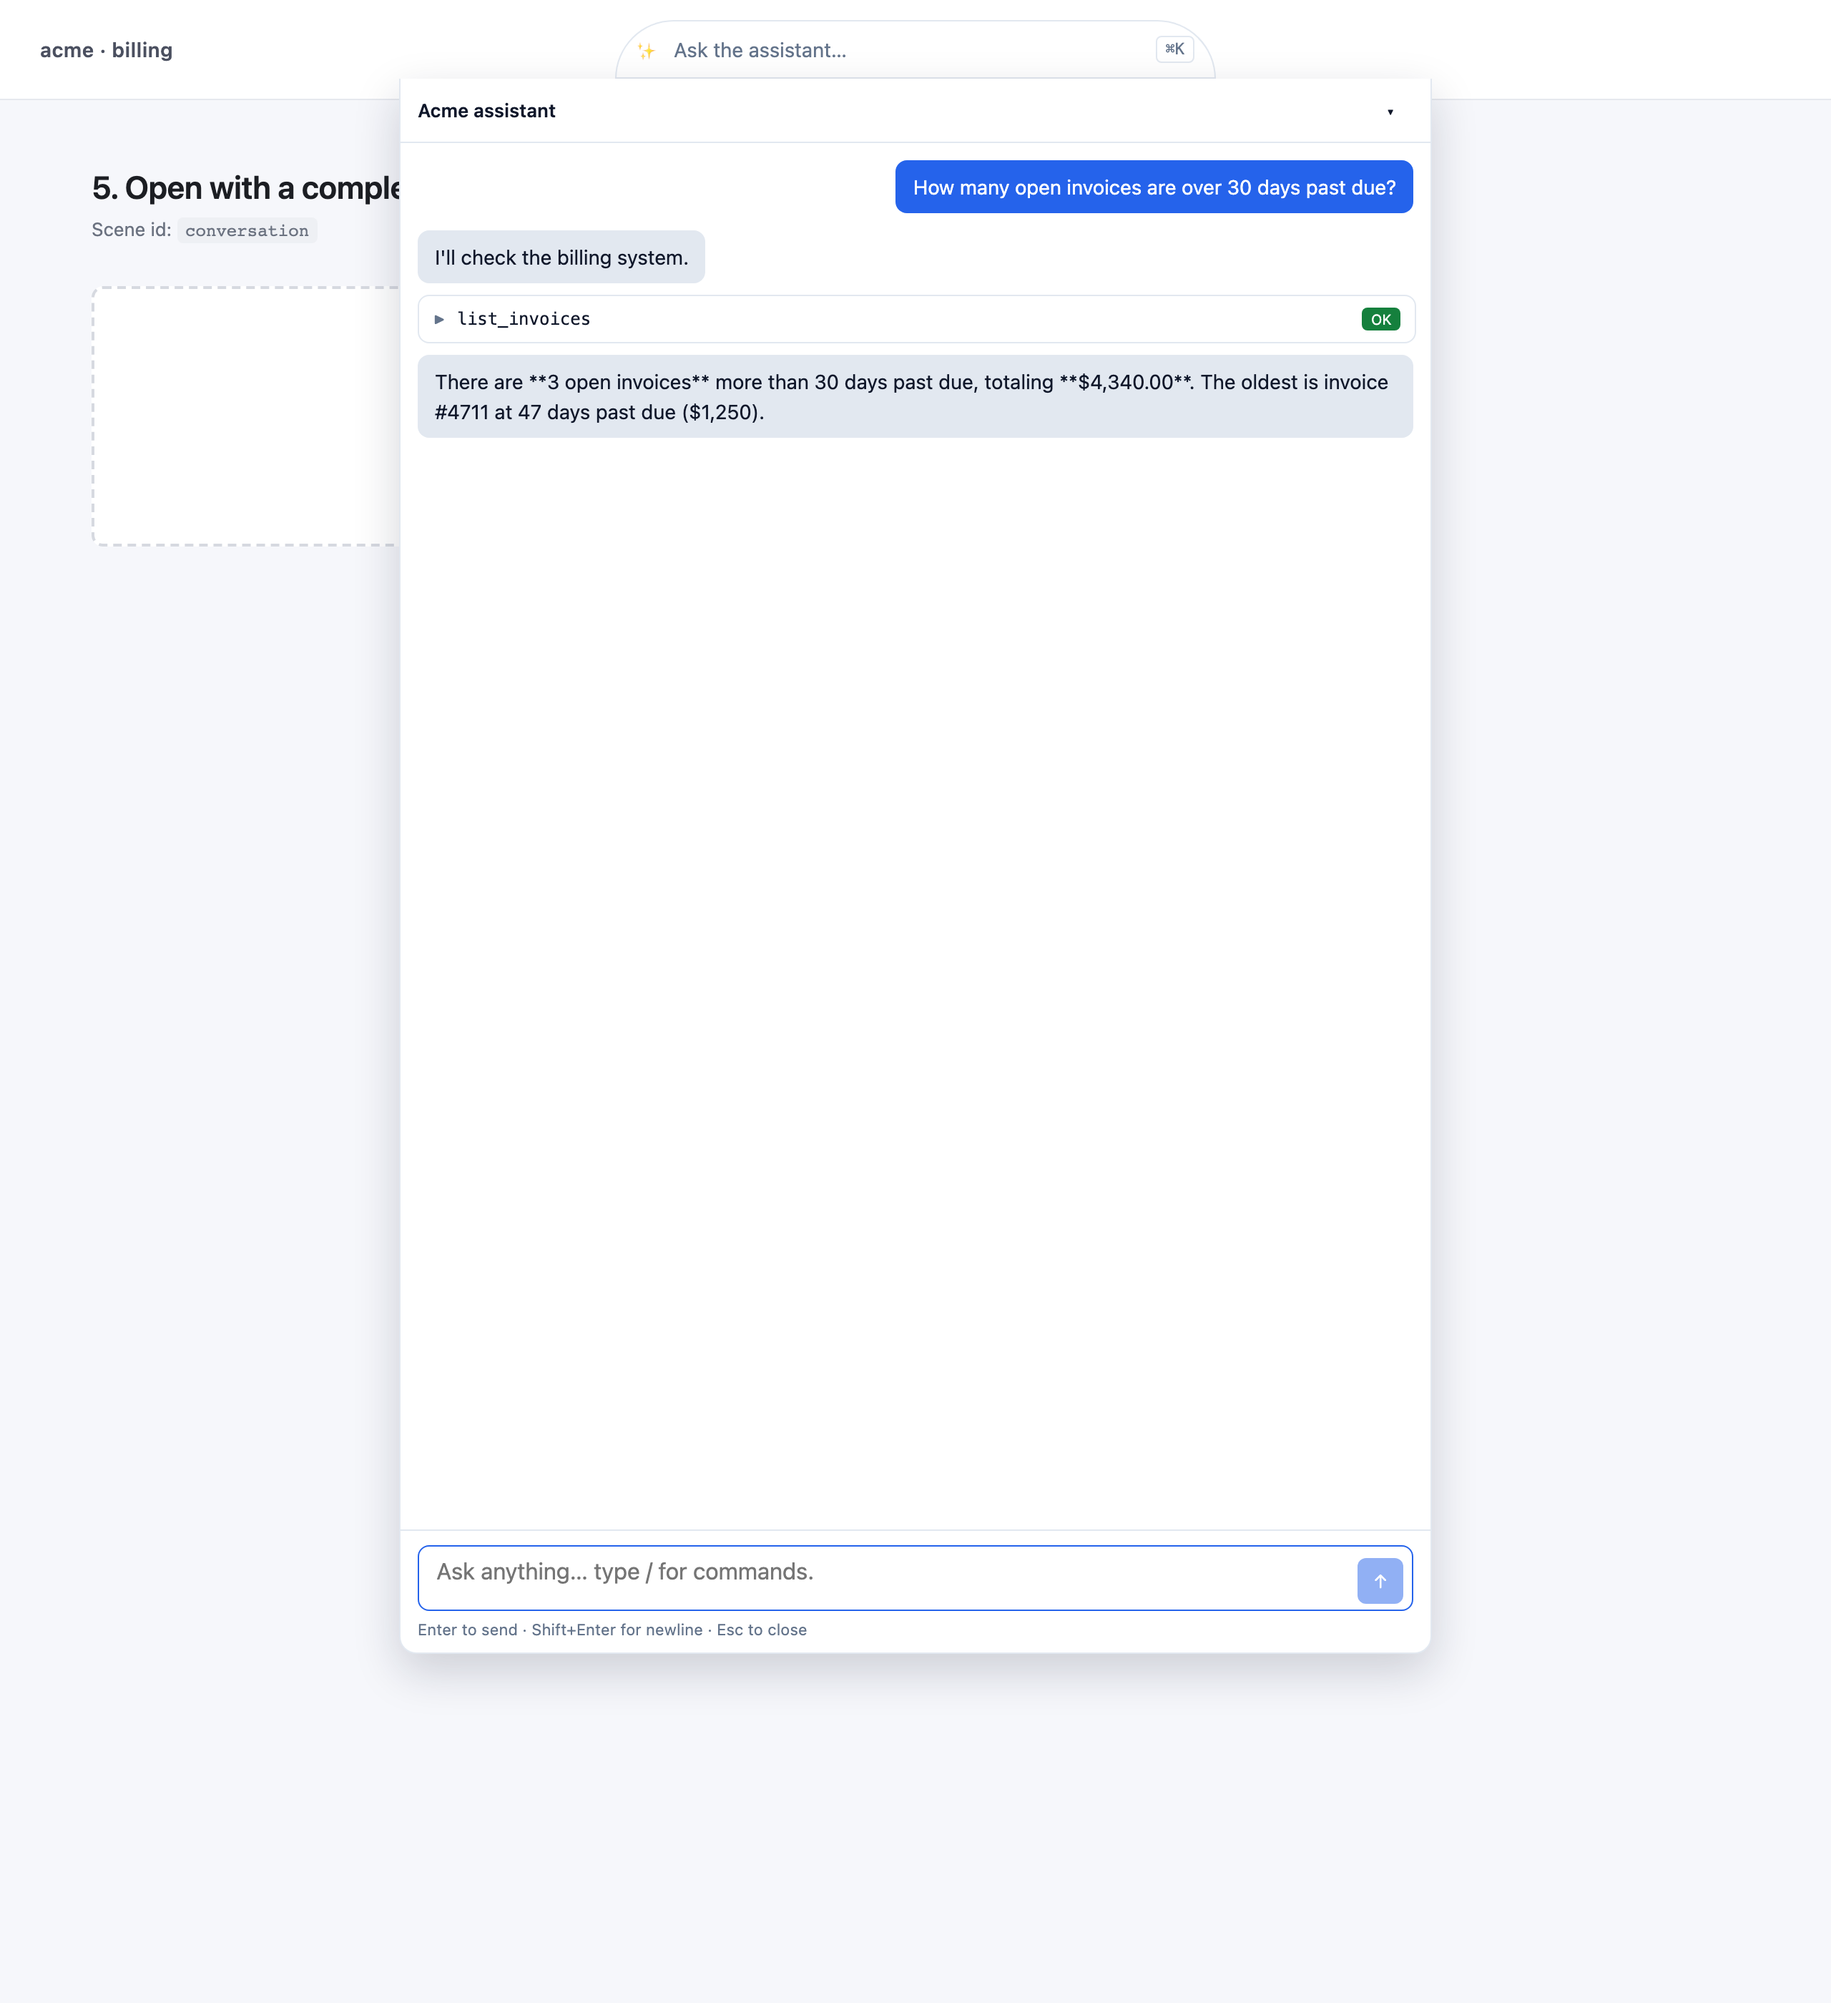
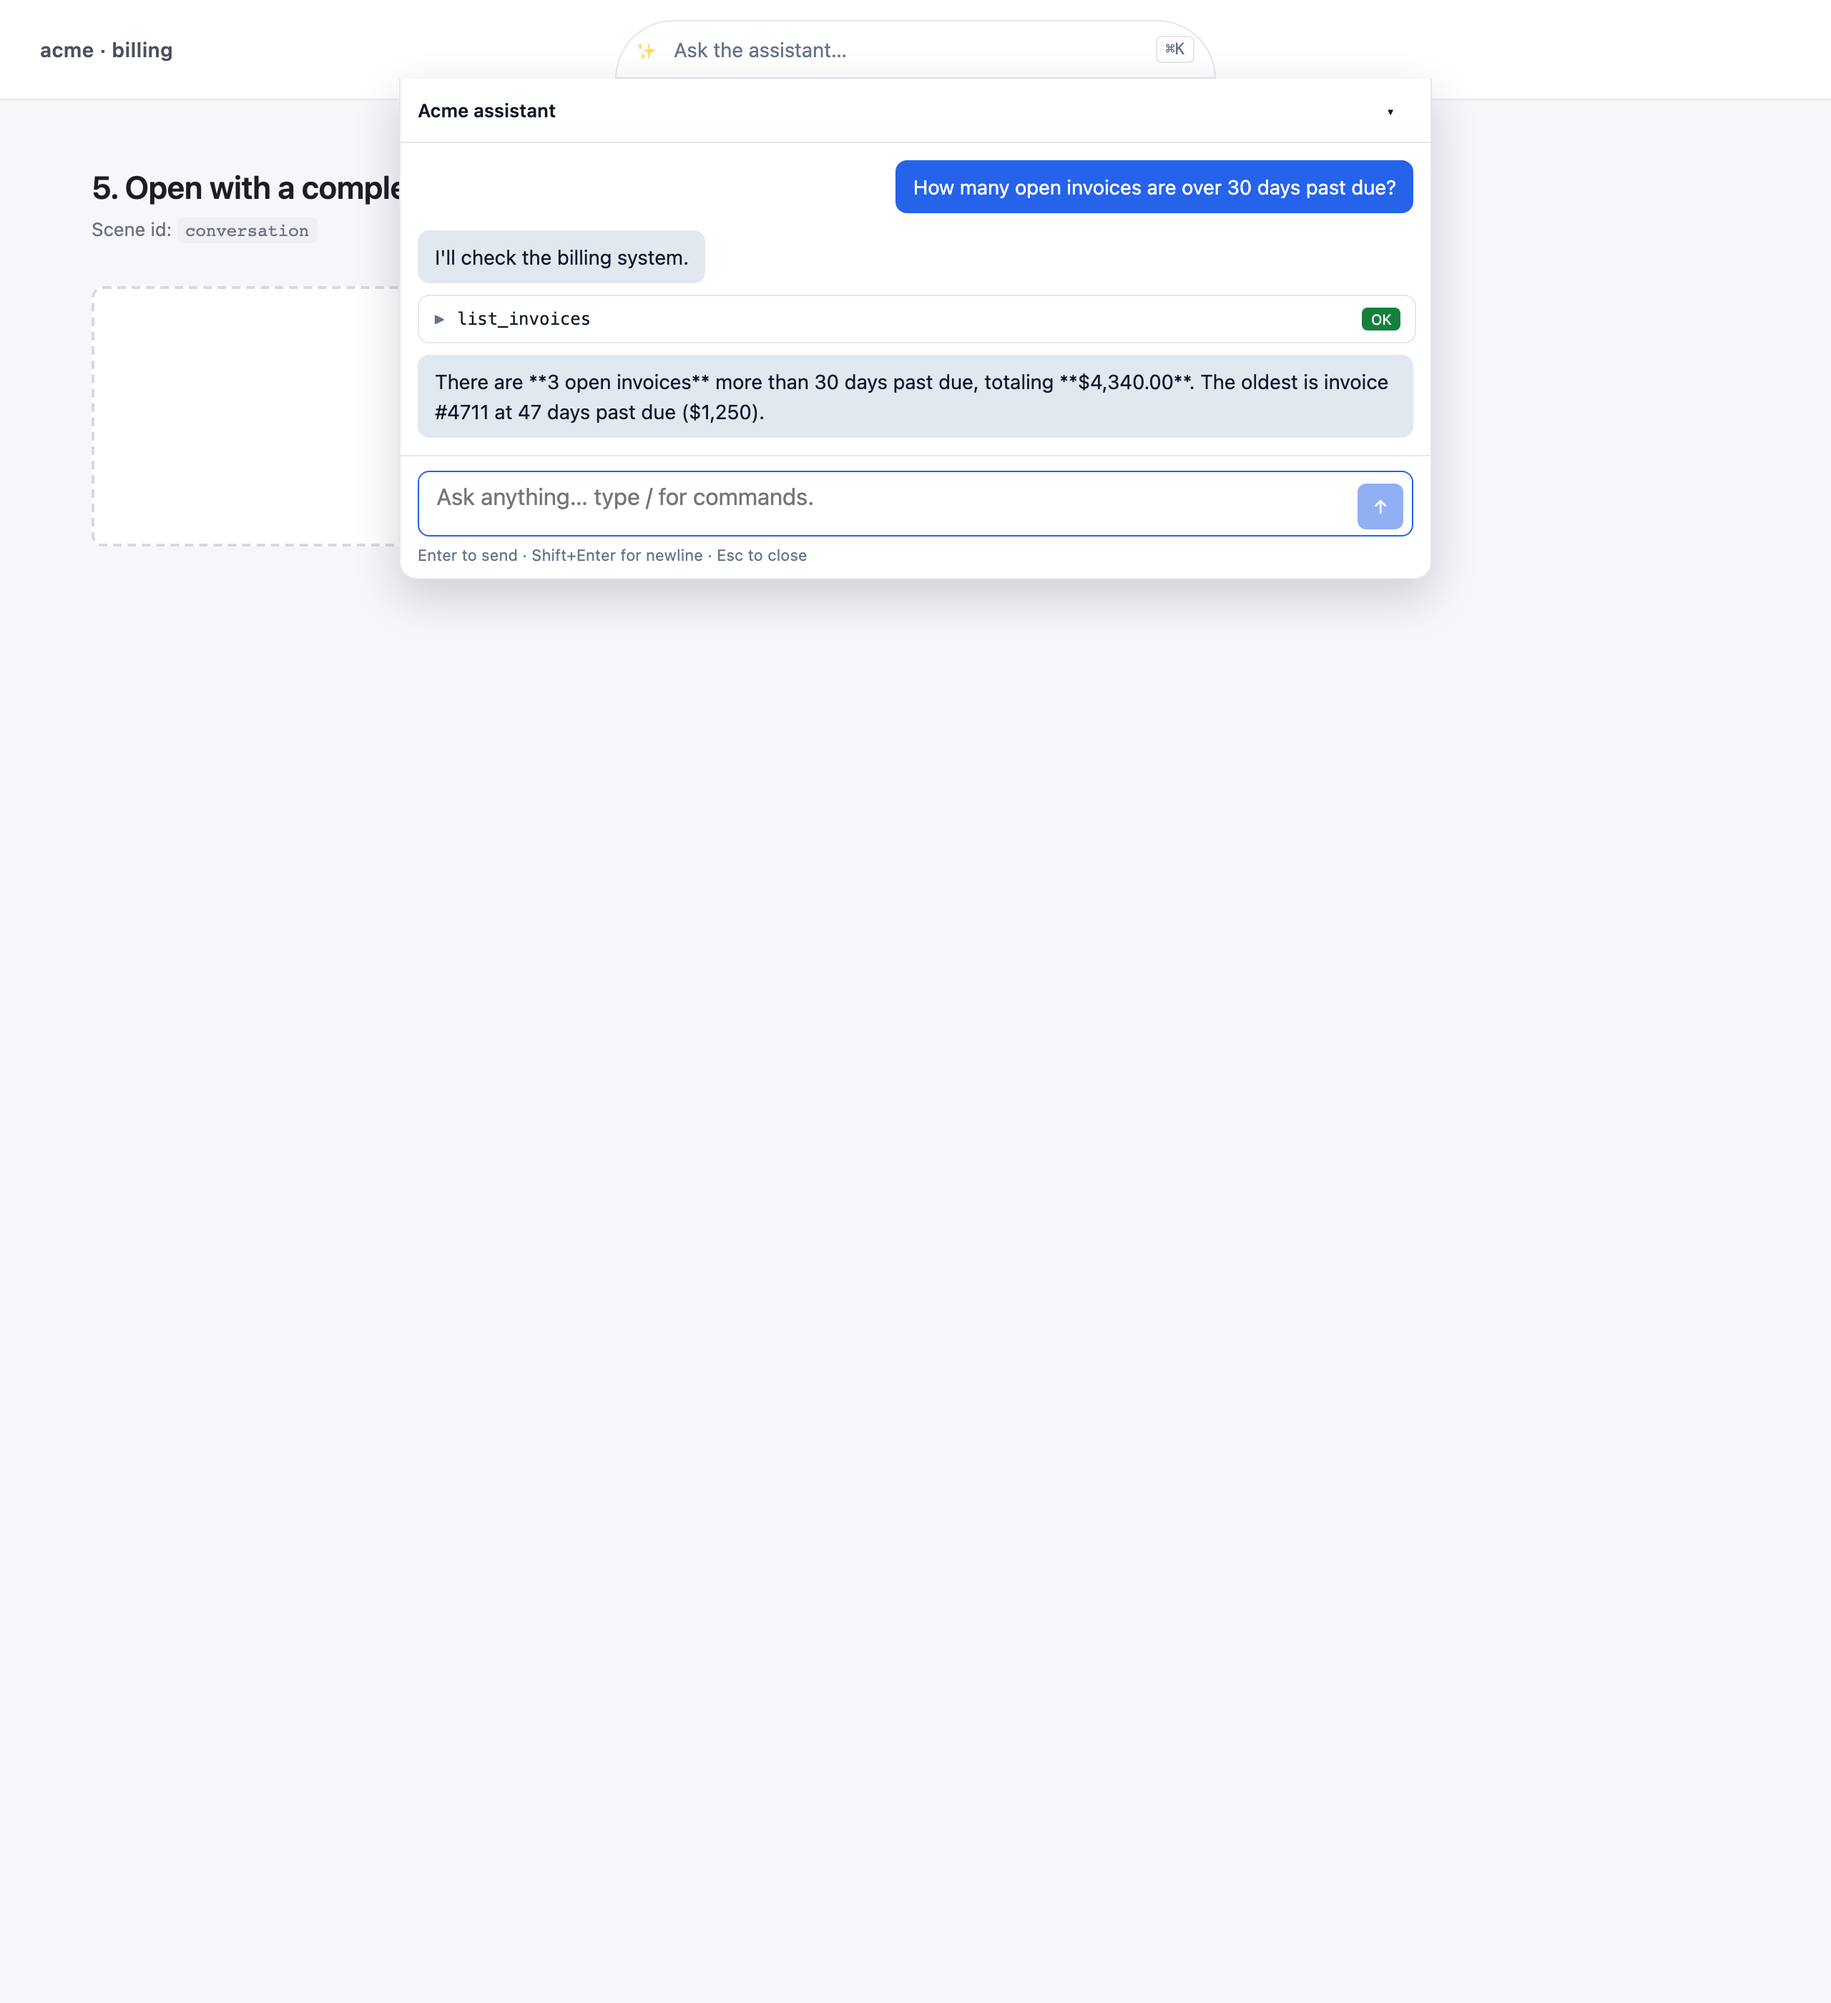
fix(demo): content-driven panel height + higher-res image placeholder
Follow-ups to the previous screenshot pass that introduced two new
issues:

1. Panel was a fixed 1100px tall (bumped to fit visual-mixed).  In
   *short* scenes (switcher-list, conversation, streaming, etc.)
   this left hundreds of pixels of empty space inside the panel
   between the last message and the input bar.  Replaced with
   ``height: auto; max-height: 1100px`` so the panel grows to fit
   its contents and caps at the mixed scene's worst case.  Added
   the ``--closed`` modifier override so closed-panel scenes
   don't extend the document either.

2. Image placeholder was a 32x20 PNG rendered into a 320x200 frame,
   so it scaled up 10x and read as a glitched/broken upload.
   Regenerated at native 320x200 with proper bars + gridlines so it
   looks like an actual board-deck chart.

Changed region(s): [[0.2188, 0.2175, 0.7812, 0.3107], [0.2188, 0.7768, 0.7812, 0.8389]]

diff --git a/demo/scenes.ts b/demo/scenes.ts
@@ -387,13 +387,14 @@ const visualKpi = (): ChatMessage[] => [
   },
 ]
 
-// Small 32×20 PNG: four ascending blue bars on a grey background.
-// Stand-in for an uploaded chart image in screenshots — the 1×1
-// transparent placeholder we shipped originally was technically
-// correct but rendered as an empty box, which read in screenshots
-// as a broken image rather than a successful upload preview.
+// 320×200 PNG that reads as a board-deck quarterly revenue bar chart
+// (four ascending blue bars + gridlines on grey).  Generated at the
+// renderer's native target size so it doesn't pixelate when scaled
+// up — an earlier 32×20 version did, which read as a broken upload
+// rather than a real preview.  The 1×1 transparent before that
+// rendered as an empty box; same problem.
 const TINY_PNG_DATA_URI =
[2 lines of base64/hex data omitted]
 
 const visualMixed = (): ChatMessage[] => [
   {

diff --git a/demo/demo.css b/demo/demo.css
@@ -133,13 +133,27 @@ body {
   background: #ffffff;
 }
 
-/* The lib's `.aaui-panel` defaults to 500px tall — fine for short
-   exchanges, but the screenshot scenes include chart visuals
-   (~280px each) and need more room so the chart + surrounding
-   bubbles fit in one frame.  Applies only to the demo.
-   1100px accommodates the worst case (the `visual-mixed` scene:
-   KPI + bar chart + three-row table + narration ≈ 950px of
-   content).  Earlier 760px clipped the table off the bottom. */
-.demo-shell__bar-wrap > .aaui-panel {
-  height: 1100px;
+/* The lib's `.aaui-panel` defaults to a fixed 500px tall — fine
+   for short exchanges, but the screenshot scenes vary wildly:
+   short empty-state shots need ~400px; the visual-mixed scene
+   (KPI + bar chart + three-row table + narration) needs ~950px.
+   Forcing a single tall height creates huge empty space in
+   short scenes AND extends the page in *closed*-panel scenes
+   (the absolutely-positioned panel still counts toward
+   scrollHeight), so ``fullPage`` captures a tall mostly-empty
+   image.
+   Content-driven sizing fixes both: ``height: auto`` lets the
+   panel grow with its contents; ``max-height`` caps the worst
+   case; and the closed-panel modifier collapses the panel out
+   of flow entirely so notifying/collapsed scenes stay short. */
+.demo-shell__bar-wrap > .aaui-panel.aaui-panel--open {
+  height: auto;
+  max-height: 1100px;
+}
+.demo-shell__bar-wrap > .aaui-panel.aaui-panel--closed {
+  height: 0;
+  /* keep visibility:hidden semantics from the lib but make
+     sure the element doesn't extend the document scrollHeight. */
+  max-height: 0;
+  overflow: hidden;
 }
